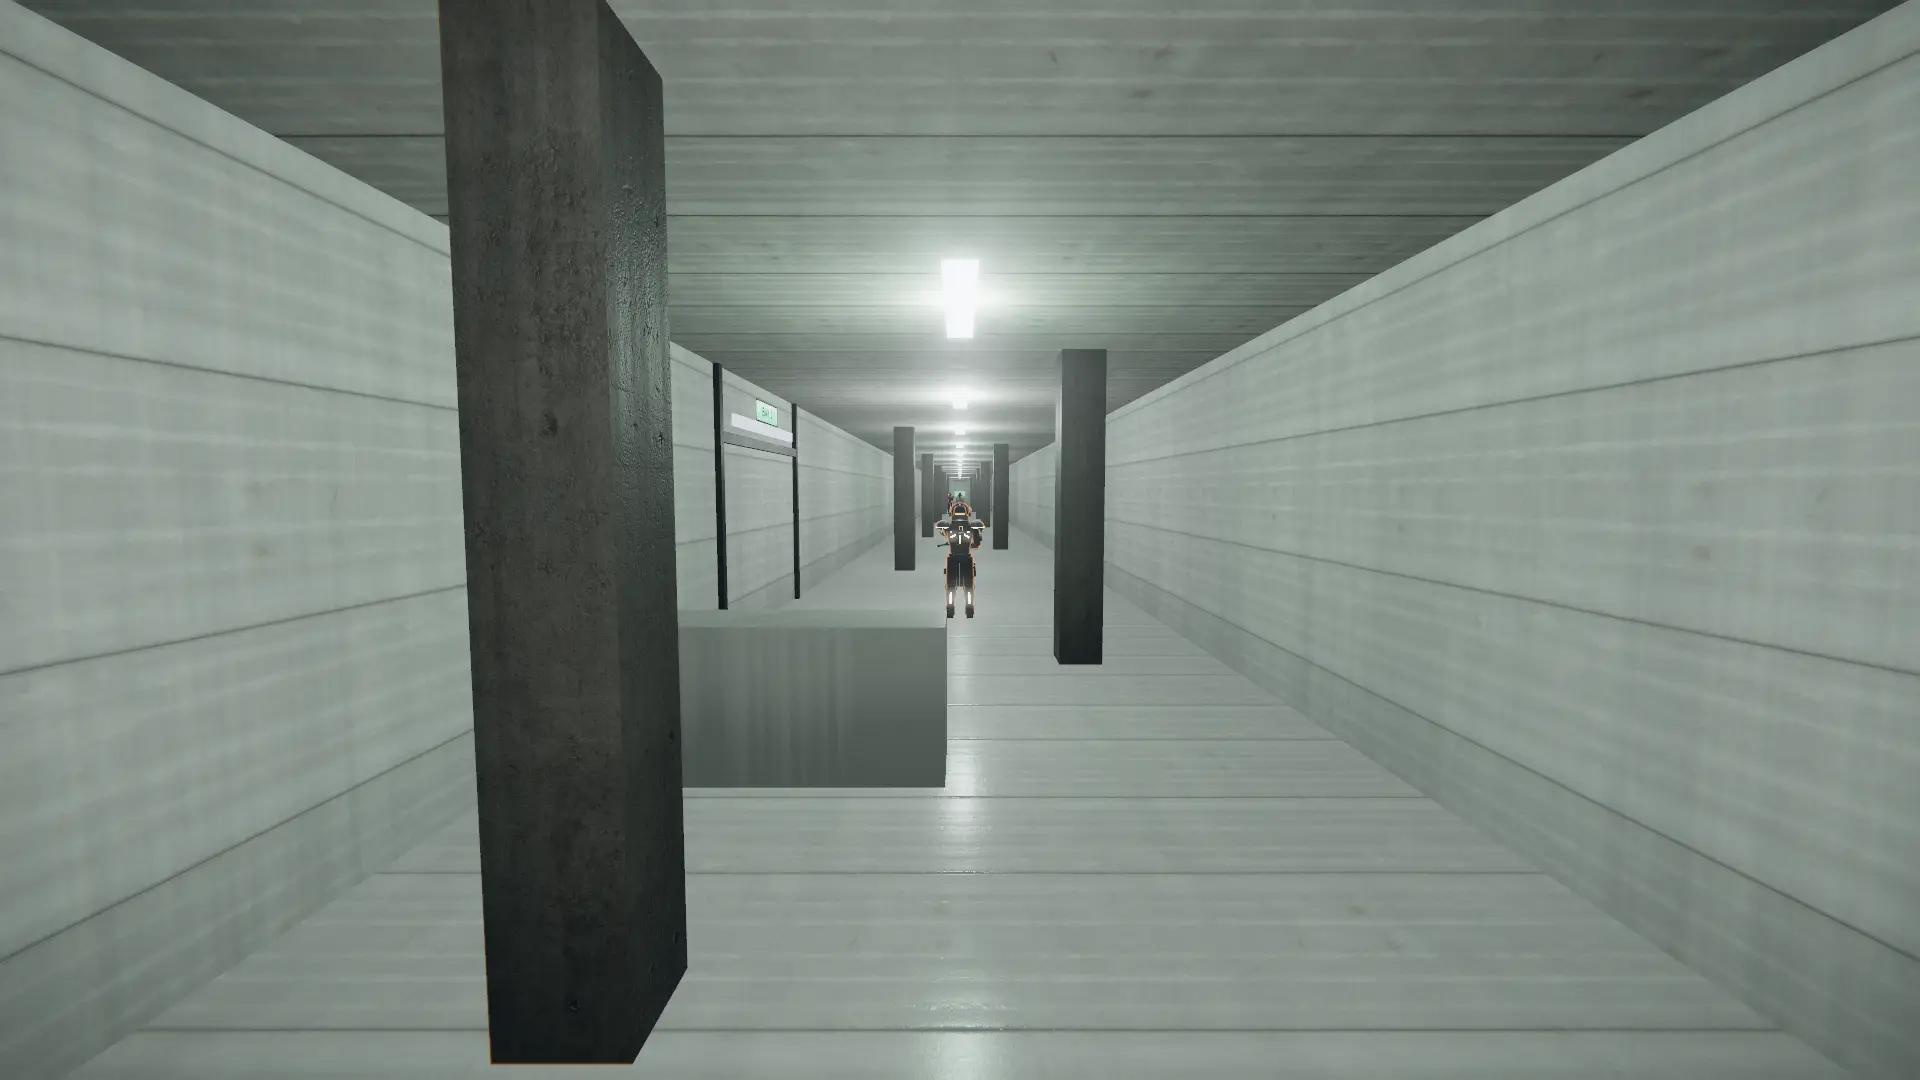
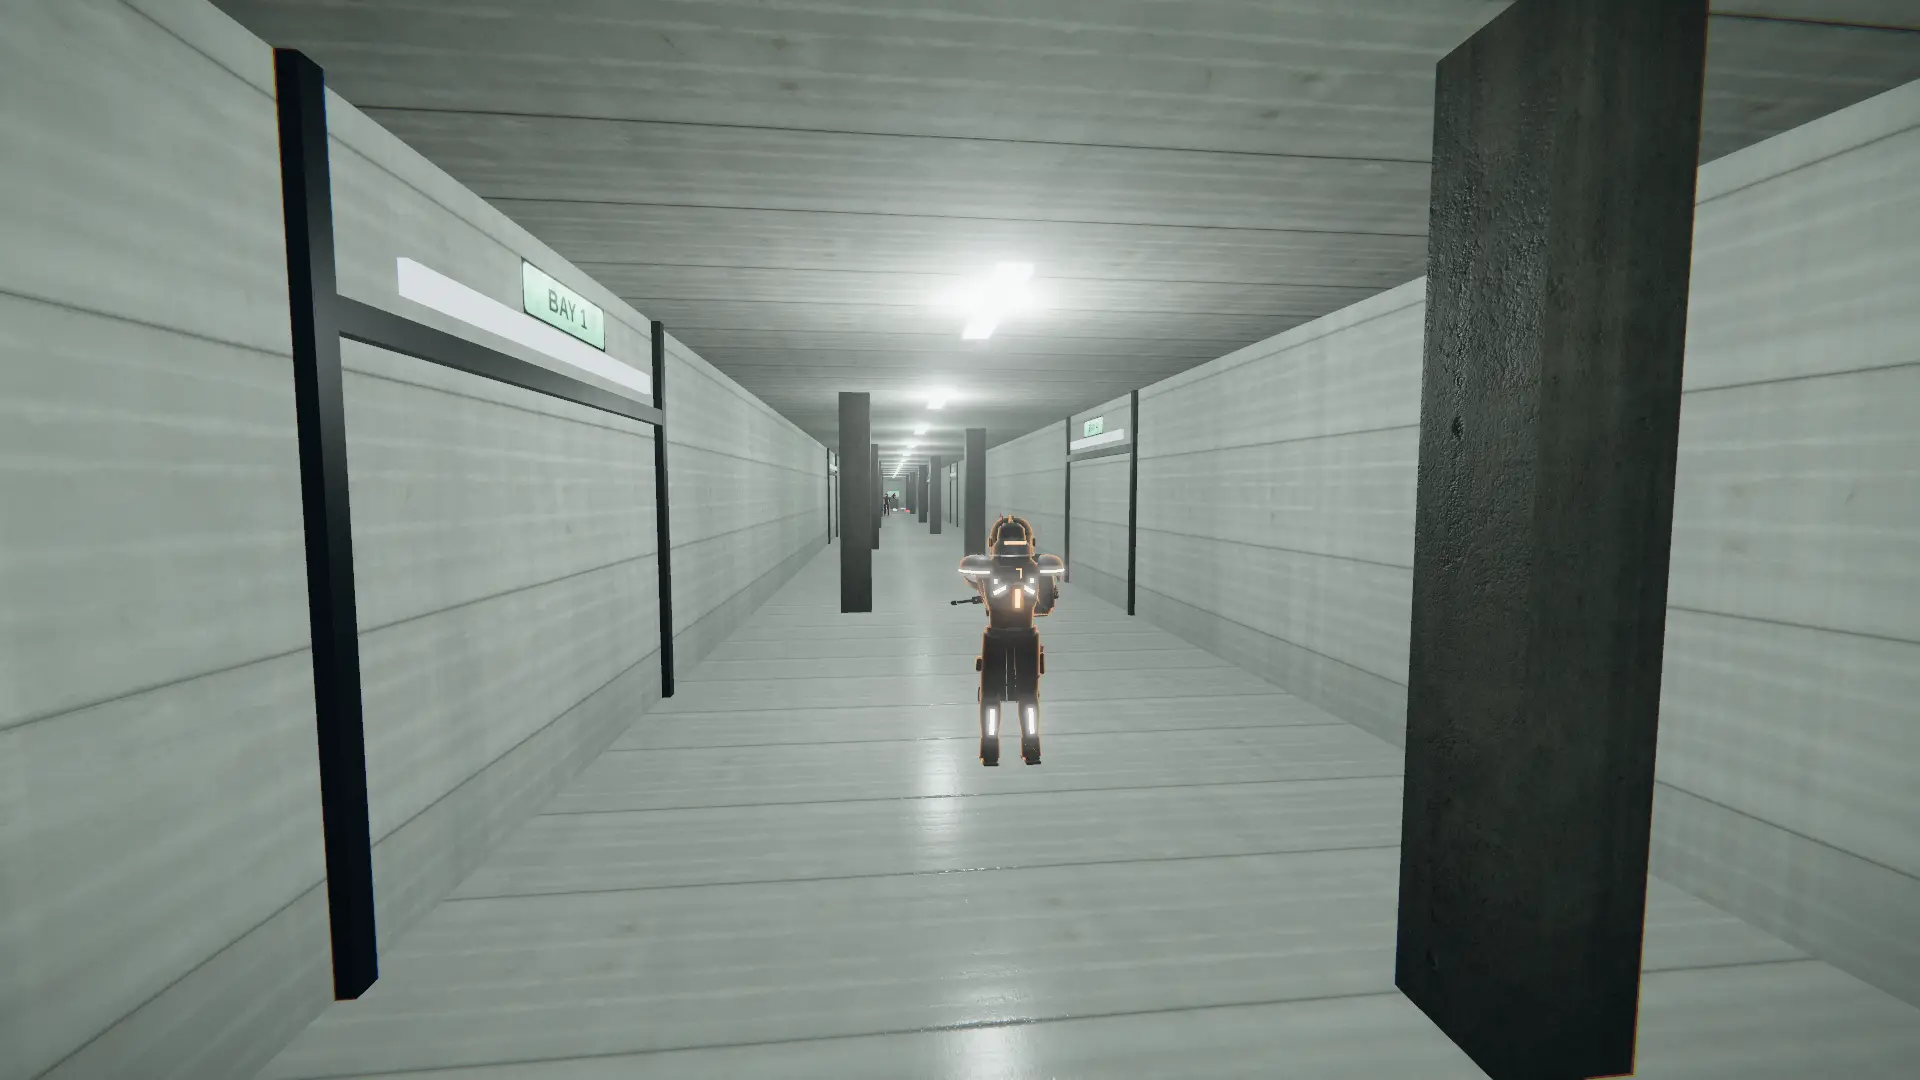
CATHODE C14: the case file gets the next name's portrait plate and a clinic that reads as a photograph
S9.6's left column now leads with a 1:1.25 halftone plate of the next name: their rig
under one hard top light (turntable view=portrait, scripts/cathode-portraits.mjs).
The clinic key art is re-shot from a dressed angle (a bay sign, a guard under the
strip lights, no foreground slab) and cropped and burnt down at the edges. The
percentage sits on the rule's end at fs-2 in ink; a still stage shows the List's
fresh strike in its end state.

Claude-Session: https://claude.ai/code/session_01A7Vhz7sgdXdpuhQ51uuF3r

diff --git a/games/cathode/src/styles.css b/games/cathode/src/styles.css
@@ -126,7 +126,17 @@ fieldset label:has(input:focus-visible) span::after { transform: none; }
   animation: ld-push 20s linear both;
 }
 /* The clinic and the tower are lit white: they drop further so the type keeps its contrast. */
-.loading[data-district="clinic"] .ld-img { background-image: url("/keyart/clinic.webp"); filter: grayscale(1) contrast(1.45) brightness(.44); }
+/* The clinic is cropped in on the guard under the strip lights and burnt down at the edges (C14 review: a whitebox
+   read), so it prints like a surveillance photograph rather than a corridor of grey slabs. */
+.loading[data-district="clinic"] .ld-img { inset: -9%; background-image: url("/keyart/clinic.webp"); background-position: 54% 52%; filter: grayscale(1) contrast(1.7) brightness(.4); }
+.loading[data-district="clinic"]::before, .loading[data-district="tower"]::before {
+  content: "";
+  position: absolute;
+  inset: 0;
+  z-index: 1;
+  background: radial-gradient(60% 70% at 56% 46%, transparent 30%, rgb(var(--black-rgb) / .78) 100%);
+  pointer-events: none;
+}
 .loading[data-district="plaza"] .ld-img { background-image: url("/keyart/plaza.webp"); }
 .loading[data-district="tower"] .ld-img { background-image: url("/keyart/tower.webp"); filter: grayscale(1) contrast(1.4) brightness(.5); }
 .loading[data-district="vault"] .ld-img { background-image: url("/keyart/vault.webp"); }
@@ -164,6 +174,50 @@ fieldset label:has(input:focus-visible) span::after { transform: none; }
   bottom: var(--ld-y);
   width: min(40vw, calc(var(--u) * 760));
 }
+/* The portrait plate (S9.6): a 1:1.25 surveillance still of the next name, top-lit, printed in halftone, pinned
+   above the name with a hairline frame and a subject number. */
+.ld-plate {
+  position: relative;
+  width: calc(var(--u) * 216);
+  aspect-ratio: 1 / 1.25;
+  margin: 0 0 calc(var(--u) * 30);
+  overflow: hidden;
+  background: var(--night);
+  box-shadow: 0 0 0 1px rgb(var(--ink-rgb) / .22), 0 calc(var(--u) * 18) calc(var(--u) * 48) rgb(var(--black-rgb) / .7);
+}
+.ld-plate-img, .ld-plate-dots { position: absolute; inset: 0; }
+.ld-plate-img {
+  background: var(--night) 50% 30% / cover no-repeat;
+  filter: grayscale(1) contrast(1.55) brightness(.92);
+}
+.ld-plate[data-job="crispBoss"] .ld-plate-img { background-image: url("/portraits/crispBoss.webp"); }
+.ld-plate[data-job="vaneBoss"] .ld-plate-img { background-image: url("/portraits/vaneBoss.webp"); }
+.ld-plate[data-job="pellBoss"] .ld-plate-img { background-image: url("/portraits/pellBoss.webp"); }
+.ld-plate[data-job="boardBoss"] .ld-plate-img { background-image: url("/portraits/boardBoss.webp"); }
+.ld-plate[data-job="vaultBoss"] .ld-plate-img { background-image: url("/portraits/vaultBoss.webp"); }
+.ld-plate-dots {
+  inset: -30%;
+  background: radial-gradient(circle, rgb(var(--black-rgb) / .85) 0 34%, transparent 44%) 0 0 / calc(var(--u) * 4) calc(var(--u) * 4);
+  transform: rotate(15deg);
+  mix-blend-mode: multiply;
+}
+.ld-plate::after {
+  content: "";
+  position: absolute;
+  inset: 0;
+  background: linear-gradient(180deg, transparent 55%, rgb(var(--shade-rgb) / .75) 100%);
+}
+.ld-plate-tag {
+  position: absolute;
+  left: calc(var(--u) * 12);
+  bottom: calc(var(--u) * 10);
+  z-index: 1;
+  font: 700 var(--fs-1)/1 var(--font-ui);
+  font-stretch: var(--wdth-label);
+  letter-spacing: .05em;
+  text-transform: uppercase;
+  color: var(--ink-2);
+}
 .ld-place {
   margin: 0 0 calc(var(--u) * 14);
   font: 700 var(--fs-1)/1.2 var(--font-ui);
@@ -181,7 +235,7 @@ fieldset label:has(input:focus-visible) span::after { transform: none; }
   text-wrap: balance;
   text-shadow: 0 calc(var(--u) * 2) calc(var(--u) * 24) rgb(var(--black-rgb) / .6);
 }
-.ld-meter { display: flex; align-items: center; gap: calc(var(--u) * 16); margin: calc(var(--u) * 26) 0 calc(var(--u) * 24); }
+.ld-meter { position: relative; display: flex; align-items: center; margin: calc(var(--u) * 26) 0 calc(var(--u) * 24); }
 .ld-rule { position: relative; flex: 1; height: 1px; background: var(--line-2); }
 /* The ink bleed: a blood line with a soft, wet leading edge. */
 .ld-ink {
@@ -218,14 +272,20 @@ fieldset label:has(input:focus-visible) span::after { transform: none; }
   animation: ld-trace 1.8s cubic-bezier(.6, 0, .2, 1) infinite;
 }
 @keyframes ld-trace { from { transform: translateX(-100%); } to { transform: translateX(460%); } }
+/* The figure sits on the rule's end (C14 review: it floated off it, small and faint). */
 .ld-pct {
+  position: absolute;
+  right: 0;
+  bottom: calc(var(--u) * 12);
   margin: 0;
   min-width: 4ch;
   text-align: right;
-  font: 600 var(--fs-1)/1 var(--font-ui);
+  font: 700 var(--fs-2)/1 var(--font-ui);
   font-stretch: var(--wdth-num);
   font-variant-numeric: tabular-nums;
-  color: var(--ink-2);
+  letter-spacing: .02em;
+  color: var(--ink);
+  text-shadow: var(--hud-shadow);
 }
 .ld-lore {
   margin: 0;
@@ -281,6 +341,8 @@ fieldset label:has(input:focus-visible) span::after { transform: none; }
 }
 @keyframes ld-ready { 0%, 100% { opacity: .55; } 50% { opacity: 1; } }
 .loading.is-still .ld-img, .loading.is-still .ld-grain { animation: none; }
+/* A still (screenshot) stage shows the struck end state at once: no transition left mid-way in the frame. */
+.loading.is-still .ld-list li.is-fresh, .loading.is-still .ld-list li.is-fresh::after { transition: none; }
 @media (prefers-reduced-motion: reduce) {
   .ld-img, .ld-grain, .ld-trace::before, .ld-ready { animation: none; }
   .ld-list li.is-fresh::after { transition-duration: 1ms; }
@@ -288,8 +350,10 @@ fieldset label:has(input:focus-visible) span::after { transform: none; }
 /* A phone held sideways: the name and lore keep the left half, The List the right corner. */
 @media (max-height: 430px) and (orientation: landscape) {
   .loading { --ld-y: max(14px, var(--safe-y)); } /* px-ok */
-  .ld-file { width: 54vw; }
+  .ld-file { width: 50vw; }
   .ld-meter { margin: calc(var(--u) * 20) 0 calc(var(--u) * 18); }
+  /* No height for the plate above the name: it stands beside the file instead. */
+  .ld-plate { position: absolute; left: calc(100% + 20px); bottom: 0; width: min(16vw, 120px); margin: 0; } /* px-ok */
 }
 
 /* ---- pause (C14, S9.7): the frozen frame graded down (uPause), the menu in the left column, the case note in

diff --git a/games/cathode/src/game/turntable.ts b/games/cathode/src/game/turntable.ts
@@ -28,6 +28,9 @@ export function openTurntable(canvas: HTMLCanvasElement): void {
   const pose = q.get("pose") ?? "idle";
   const archParam = q.get("arch") ?? "enforcer";
   const archs = archParam === "all" ? ["enforcer", "leader", "riot", "sniper"] : [archParam];
+  // C14 (S9.6): view=portrait is the loading screen's plate of the next name: head and shoulders, 1:1.25, under one
+  // hard top light (a surveillance still), turned by `yaw` (degrees). scripts/cathode-portraits.mjs renders them.
+  const portrait = view === "portrait";
   const renderer = new THREE.WebGLRenderer({ canvas, antialias: true, preserveDrawingBuffer: true });
   renderer.setPixelRatio(Math.min(2, window.devicePixelRatio));
   renderer.setSize(window.innerWidth, window.innerHeight);
@@ -36,8 +39,20 @@ export function openTurntable(canvas: HTMLCanvasElement): void {
   renderer.shadowMap.enabled = !sil;
   renderer.shadowMap.type = THREE.PCFSoftShadowMap;
   const scene = new THREE.Scene();
-  scene.background = new THREE.Color(sil ? 0x808080 : 0x161a22);
-  if (!sil) {
+  scene.background = new THREE.Color(sil ? 0x808080 : portrait ? 0x07080a : 0x161a22);
+  if (portrait) {
+    renderer.toneMappingExposure = 0.9;
+    // The top light: straight down, a touch in front, a tight cone (the brow and the visor rim take it, the face
+    // falls into shadow under them), and a faint cold edge from behind so the shoulders hold the frame.
+    const top = new THREE.SpotLight(0xfff1de, 34, 12, 0.3, 0.7, 1.2);
+    top.position.set(0.1, 4.6, 0.35);
+    top.target.position.set(0, 1.45, 0);
+    scene.add(top, top.target);
+    const edge = new THREE.SpotLight(0x9fc4ff, 14, 12, 0.5, 0.6, 1.4);
+    edge.position.set(-1.8, 2.4, -2.6);
+    edge.target.position.set(0, 1.5, 0);
+    scene.add(edge, edge.target);
+  } else if (!sil) {
     const pm = new THREE.PMREMGenerator(renderer);
     scene.environment = pm.fromScene(new RoomEnvironment(), 0.04).texture;
     scene.environmentIntensity = 0.35;
@@ -57,15 +72,17 @@ export function openTurntable(canvas: HTMLCanvasElement): void {
     rim.position.set(3.4, 3.2, -3.6);
     scene.add(rim, rim.target);
   }
-  const turns = archs.length === 1 ? (view === "back" ? [Math.PI] : [0, Math.PI / 4, Math.PI / 2, Math.PI]) : archs.map(() => 0.35);
+  const yawDeg = Number(q.get("yaw") ?? "18") || 0;
+  const turns = portrait ? [THREE.MathUtils.degToRad(yawDeg)] : archs.length === 1 ? (view === "back" ? [Math.PI] : [0, Math.PI / 4, Math.PI / 2, Math.PI]) : archs.map(() => 0.35);
   const kits = archs.length === 1 ? turns.map(() => archs[0]!) : archs;
-  const gap = view === "close" ? 0 : 1.05;
-  const shown = view === "close" ? 1 : kits.length;
+  const gap = view === "close" || portrait ? 0 : 1.05;
+  const shown = view === "close" || portrait ? 1 : kits.length;
   const black = new THREE.MeshBasicMaterial({ color: 0x000000 });
   const enemies: Enemy[] = [];
   for (let i = 0; i < shown; i++) {
     const kit = KITS[kits[i]!] ?? ENFORCER;
-    const e = new Enemy({ ...kit }, [new THREE.Vector3()], 1);
+    // The portrait is the person, not their shield.
+    const e = new Enemy({ ...kit, ...(portrait && kit.role === "shield" ? { role: "rifle" as const } : {}) }, [new THREE.Vector3()], 1);
     e.motion.pos.set((i - (shown - 1) / 2) * gap, 0, 0);
     e.motion.yaw = turns[i]!;
     e.motion.aim = pose === "aim" ? 1 : 0;
@@ -82,17 +99,17 @@ export function openTurntable(canvas: HTMLCanvasElement): void {
       e.feel(1 / 60, [], () => 0);
     }
   if (sil) scene.overrideMaterial = black;
-  const cam = new THREE.PerspectiveCamera(view === "close" ? 26 : 30, window.innerWidth / window.innerHeight, 0.05, 60);
+  const cam = new THREE.PerspectiveCamera(portrait ? 22 : view === "close" ? 26 : 30, window.innerWidth / window.innerHeight, 0.05, 60);
   // The bodies draw on the main view's layer (the street's mirror sees a LOD2 stand-in instead).
   cam.layers.enable(LAYER_NO_REFLECT);
   const frame = () => {
     cam.aspect = window.innerWidth / window.innerHeight;
-    const w = Math.max(1.2, shown * gap + 0.6);
-    const h = view === "close" ? 1.1 : 2.15;
+    const w = portrait ? 0.5 : Math.max(1.2, shown * gap + 0.6);
+    const h = portrait ? 0.82 : view === "close" ? 1.1 : 2.15;
     const fy = THREE.MathUtils.degToRad(cam.fov);
     const dist = Math.max(h / 2 / Math.tan(fy / 2), w / 2 / (Math.tan(fy / 2) * cam.aspect)) * 1.08;
-    const ty = view === "close" ? 1.42 : 0.98;
-    cam.position.set(0, ty + 0.15, dist);
+    const ty = portrait ? 1.62 : view === "close" ? 1.42 : 0.98;
+    cam.position.set(0, ty + (portrait ? 0.02 : 0.15), dist);
     cam.lookAt(0, ty, 0);
     cam.updateProjectionMatrix();
     renderer.setSize(window.innerWidth, window.innerHeight);

diff --git a/games/cathode/src/game/session.ts b/games/cathode/src/game/session.ts
@@ -4312,6 +4312,22 @@ export async function startSession(o: SessionOptions): Promise<Session> {
       o.touch.hidden = true;
       player.pos.y += 0.45;
       player.pitch = -0.07;
+      // scripts/cathode-keyart.mjs can move the lens off her start for a district whose start frame reads as a
+      // blockout (C14 review: the clinic): &kx=&kz= metres, &kyaw=&kpitch= degrees, &ky= metres up.
+      {
+        const kq = new URLSearchParams(location.search);
+        const num = (k: string) => (kq.has(k) ? Number(kq.get(k)) || 0 : null);
+        const kx = num("kx");
+        const kz = num("kz");
+        const ky = num("ky");
+        const kyaw = num("kyaw");
+        const kpitch = num("kpitch");
+        if (kx !== null) player.pos.x += kx;
+        if (kz !== null) player.pos.z += kz;
+        if (ky !== null) player.pos.y += ky;
+        if (kyaw !== null) player.yaw += THREE.MathUtils.degToRad(kyaw);
+        if (kpitch !== null) player.pitch = THREE.MathUtils.degToRad(kpitch);
+      }
       return "ok";
     }
     // C13T: the character sheet (dossier) on its skills tab.

diff --git a/games/cathode/src/ui/loadingview.ts b/games/cathode/src/ui/loadingview.ts
@@ -43,6 +43,16 @@ export function openLoading(root: HTMLElement, card: LoadingCard, o: { still: bo
   el("div", "ld-grain", art);
 
   const file = el("div", "ld-file", root);
+  // S9.6: the halftone plate of the next name, their rig under a top light (scripts/cathode-portraits.mjs).
+  if (card.job) {
+    const plate = el("figure", "ld-plate", file);
+    plate.dataset.job = card.job;
+    plate.setAttribute("aria-hidden", "true");
+    el("div", "ld-plate-img", plate);
+    el("div", "ld-plate-dots", plate);
+    const n = ["crispBoss", "vaneBoss", "pellBoss", "boardBoss", "vaultBoss"].indexOf(card.job) + 1;
+    el("figcaption", "ld-plate-tag", plate, `Subject ${String(n).padStart(2, "0")}`);
+  }
   el("p", "ld-place", file, card.place);
   el("h2", "ld-name", file, card.name);
   const meter = el("div", "ld-meter", file);

diff --git a/games/cathode/src/ui/frontcopy.ts b/games/cathode/src/ui/frontcopy.ts
@@ -166,6 +166,8 @@ export interface LoadingCard {
   place: string;
   /** The next name on the list (or "The List", closed). */
   name: string;
+  /** The next name's job (their portrait plate, public/portraits/<job>.webp); undefined once the list is closed. */
+  job?: string;
   /** Cath's lines about them, at most 55 words. */
   lore: string;
   /** The list for the corner: every reached name, done ones struck. `fresh` strikes through as it loads. */
@@ -198,6 +200,7 @@ export function loadingCard(jobsDone: readonly string[], target: string | undefi
     district: id,
     place: `ACT ${d.act} · ${d.place.toUpperCase()}`,
     name: next ? next.name : "The List",
+    job: next?.job,
     lore: next ? LORE[next.job]! : CLOSED_LORE,
     list,
     sealed: rows.filter((r) => r.redacted).length,

diff --git a/games/cathode/src/main.ts b/games/cathode/src/main.ts
@@ -603,6 +603,8 @@ async function boot(): Promise<void> {
     $("hud").hidden = true;
     $("front-bars").classList.add("is-gone");
     $("front-grain").classList.add("is-off");
+    // The no-WebGL fallback sky would sit over the studio (C14: the portrait plates came out as its gradient).
+    $("front-fallback").hidden = true;
     const { openTurntable } = await import("./game/turntable");
     openTurntable($<HTMLCanvasElement>("view"));
     return;
